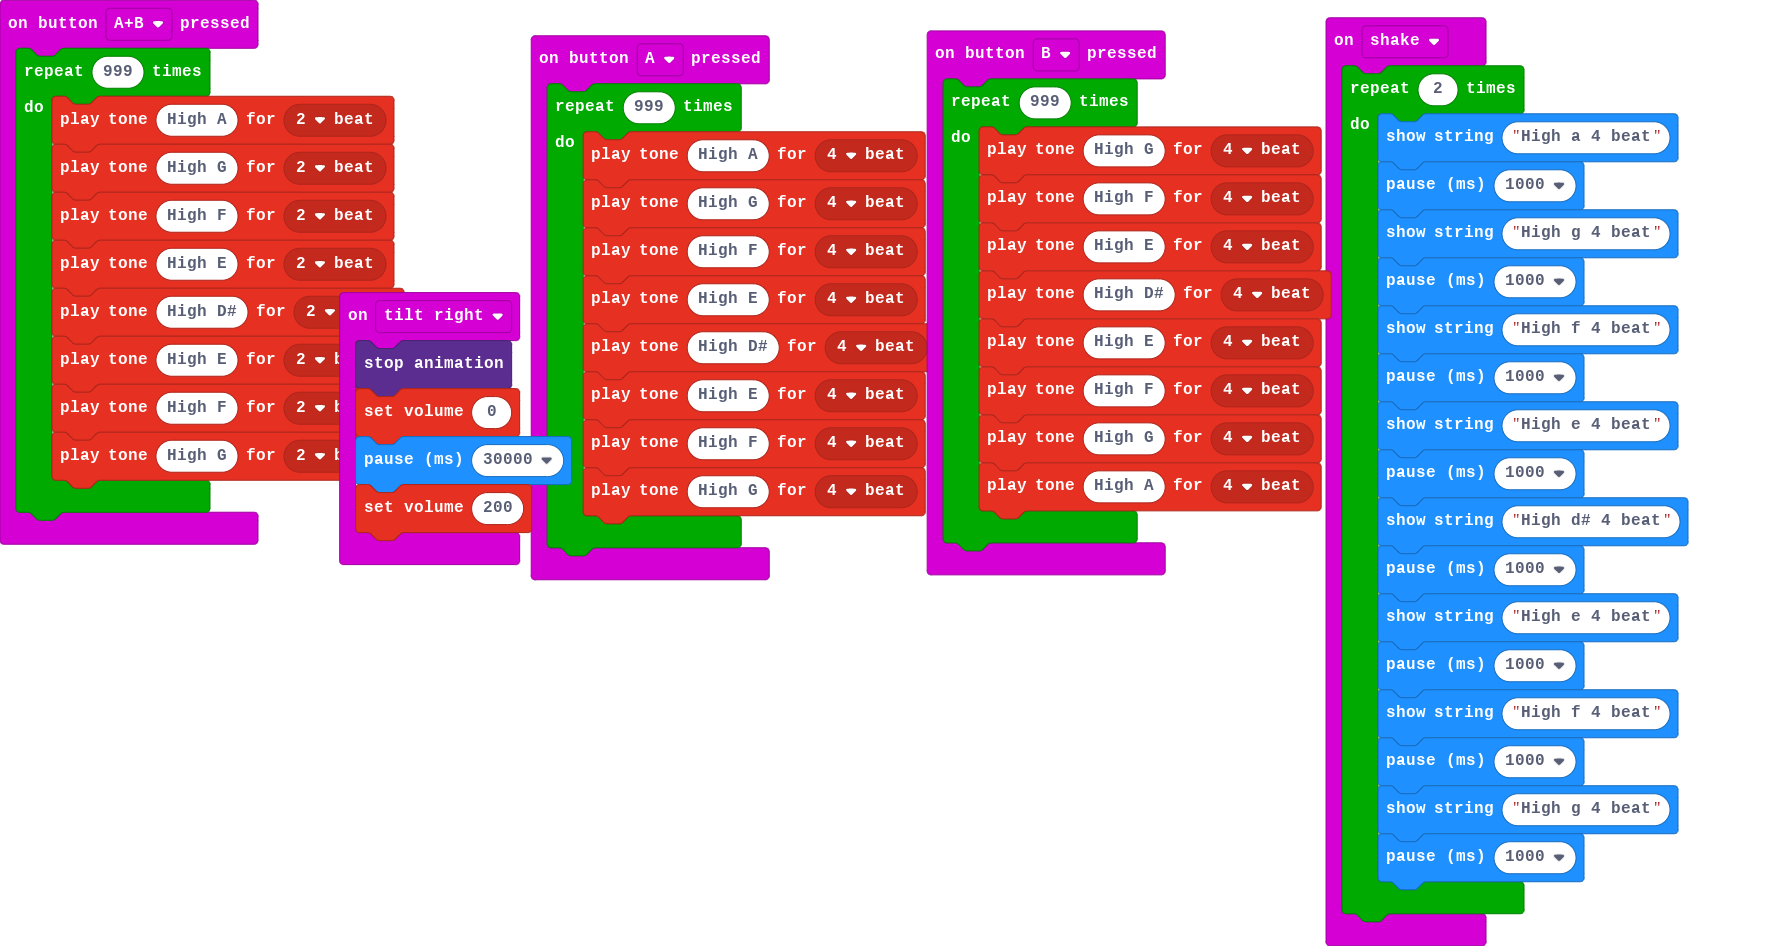
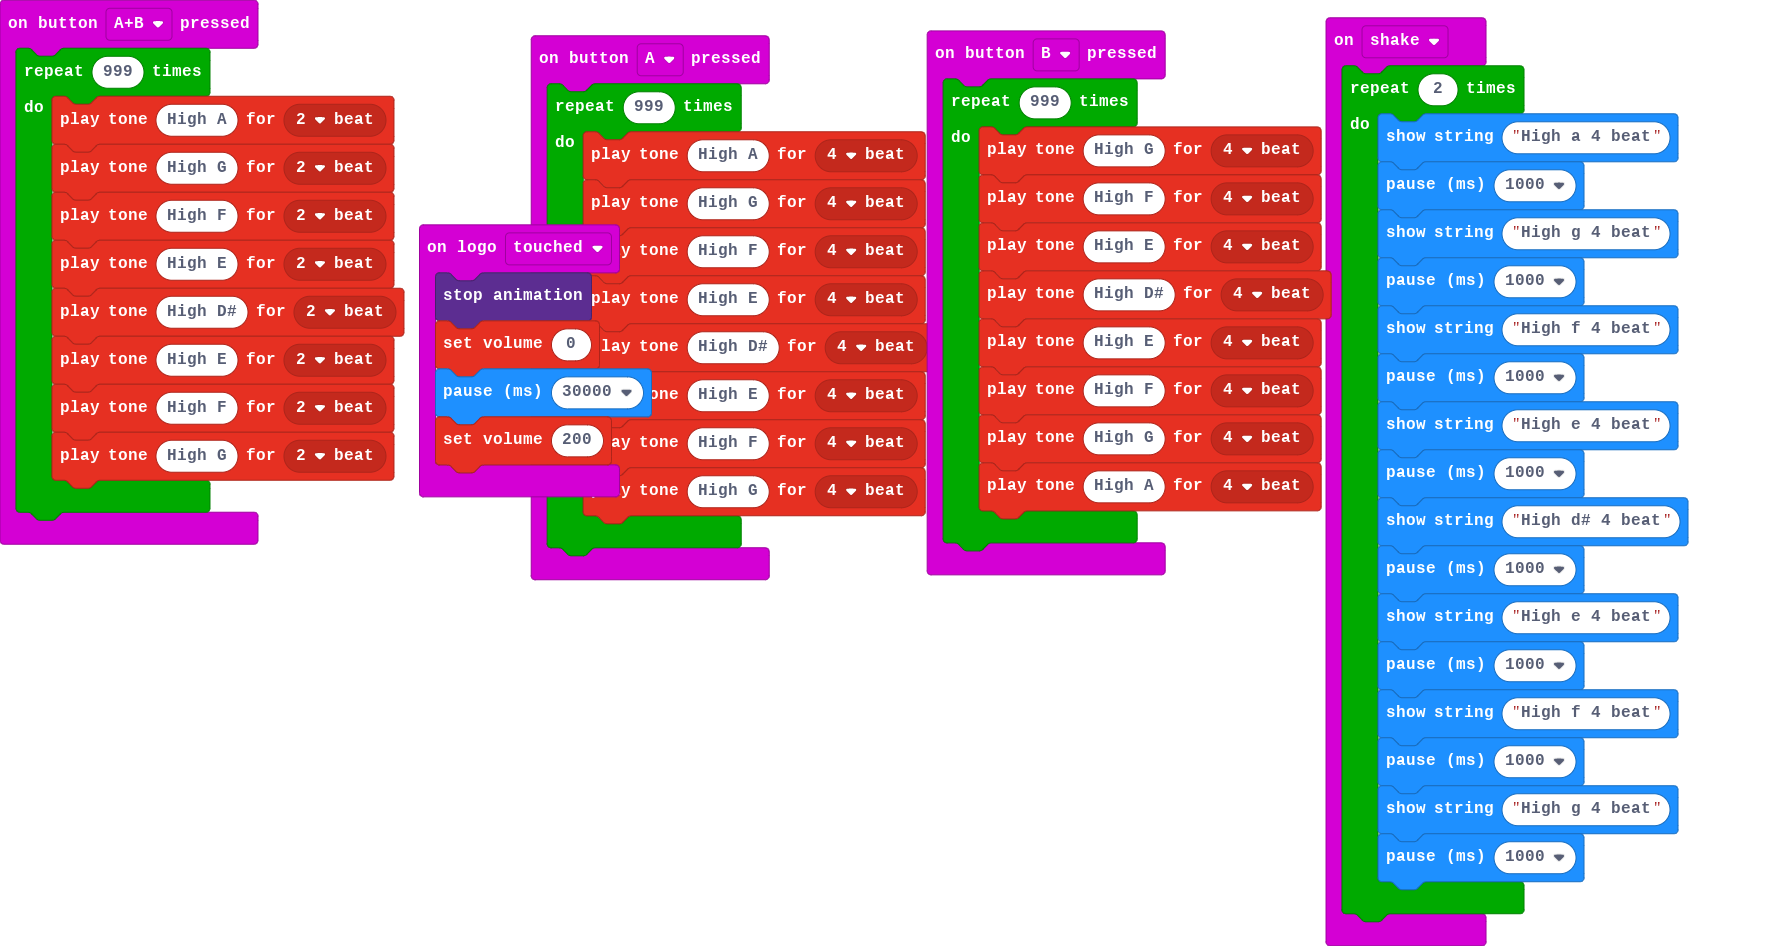
Update main.blocks, main.ts

Changed region(s): [[0.1875, 0.2146, 0.375, 0.6131]]

diff --git a/main.ts b/main.ts
@@ -54,7 +54,7 @@ input.onGesture(Gesture.Shake, function () {
         basic.pause(1000)
     }
 })
-input.onGesture(Gesture.TiltRight, function () {
+input.onLogoEvent(TouchButtonEvent.Touched, function () {
     led.stopAnimation()
     music.setVolume(0)
     basic.pause(30000)
